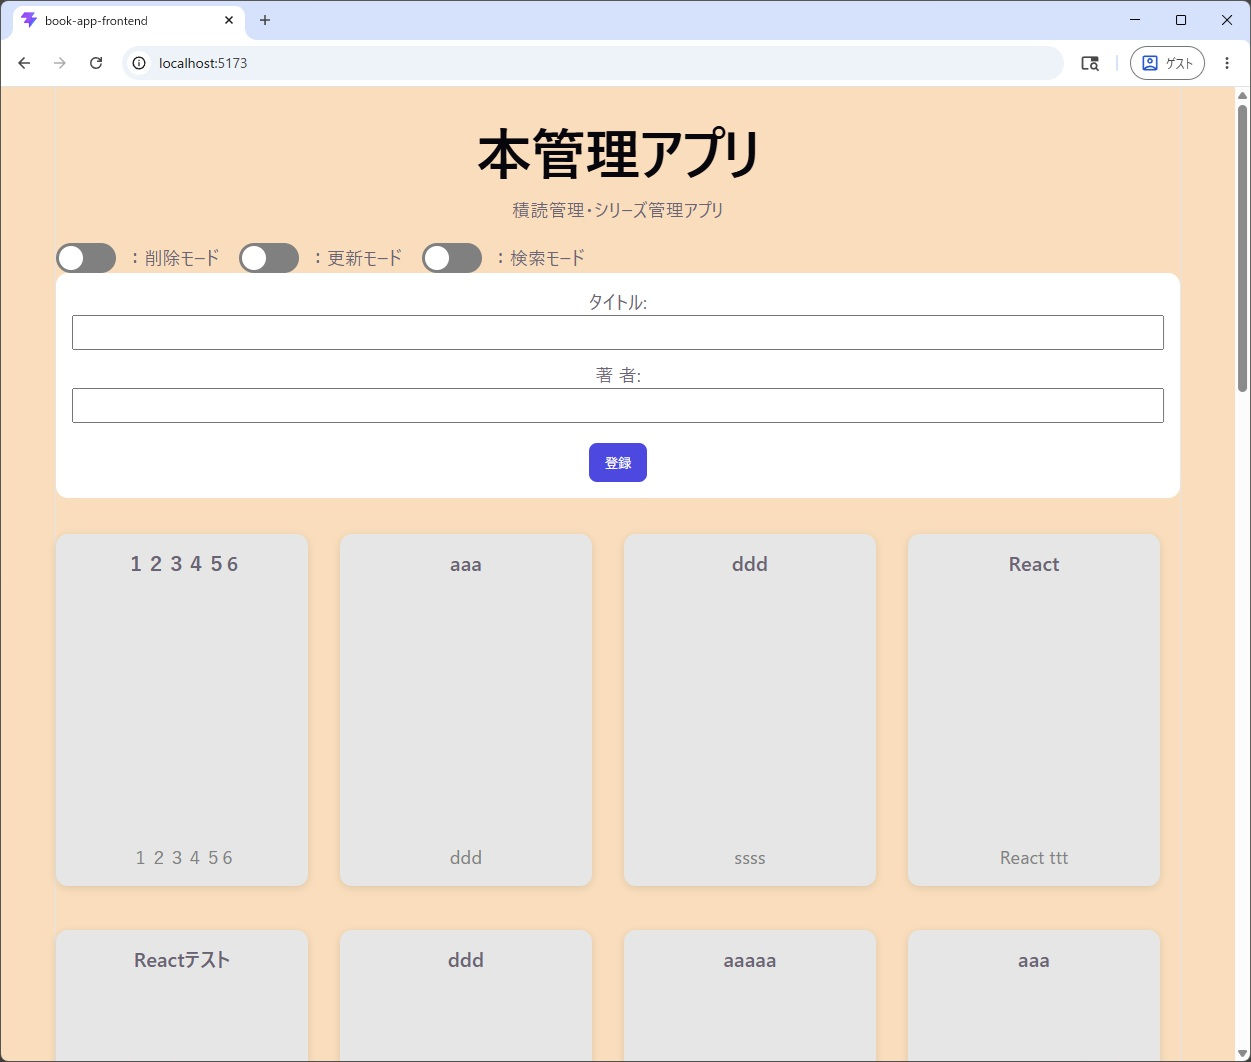
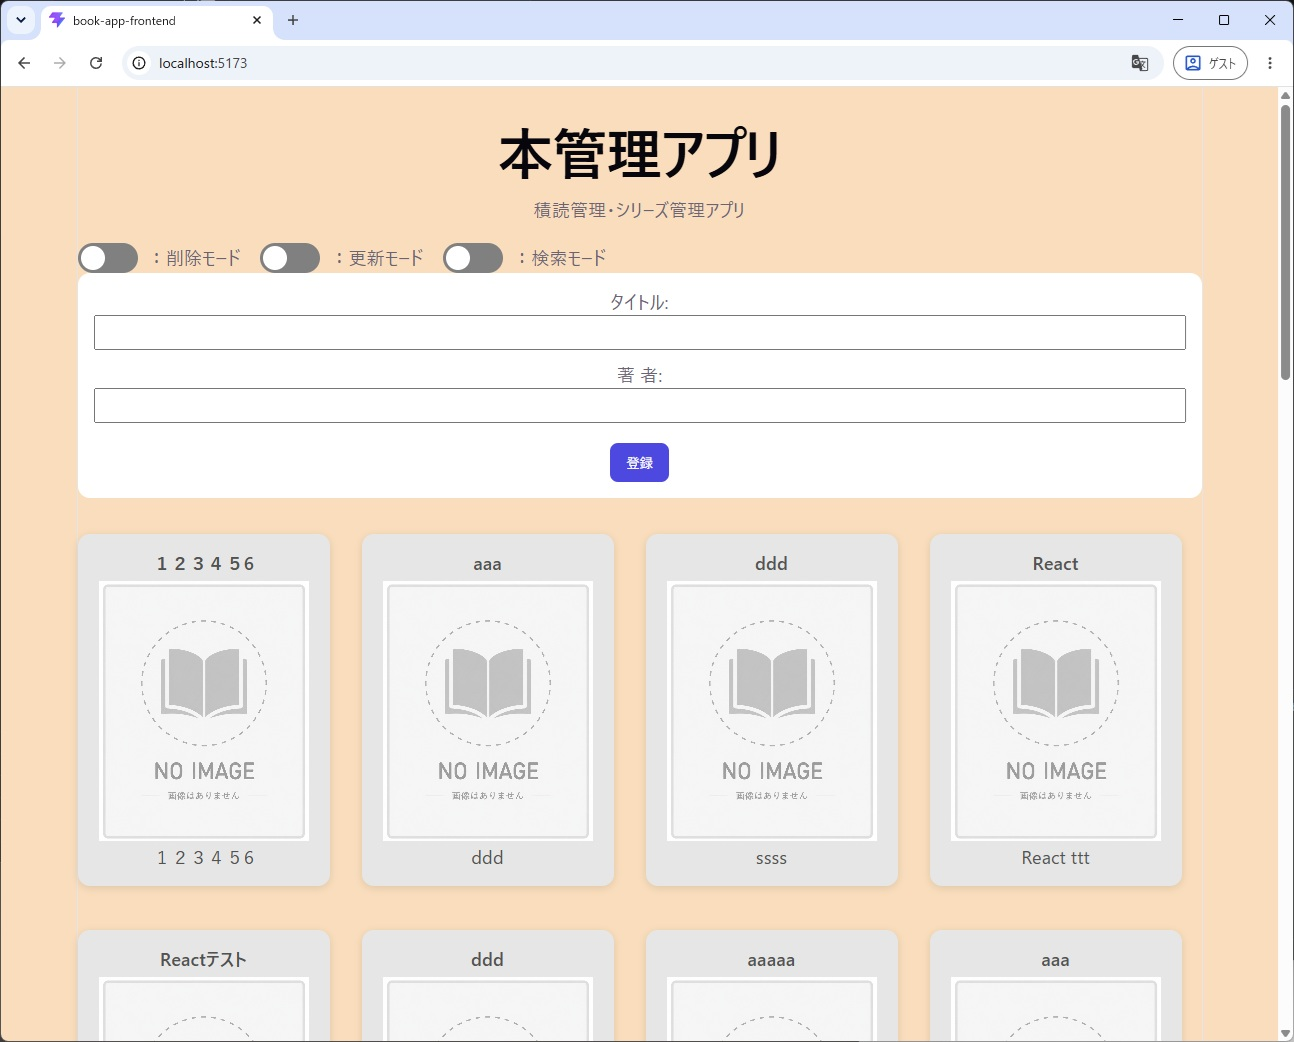
表紙画像追加とUI調整

diff --git a/src/App.jsx b/src/App.jsx
@@ -15,6 +15,9 @@ function App() {
   {/*複合モード*/}
   const [mode, setMode] = useState("normal")
 
+   {/*検索時判定*/}
+  const [isSearch, setIsSearch] = useState(false)
+
   {/*検索*/}
   const [searchText, setSearchText] = useState("")
 
@@ -26,7 +29,7 @@ function App() {
     setAuthor("")
     setEditId(null)
     setSelectId(null)
-    console.log("mode変更")
+    setIsSearch(false)
   
   }, [mode])
 
@@ -63,11 +66,31 @@ function App() {
 
   //検索
   const searchBook = () => {
+
+    setIsSearch(true)
+
+    // 両方空なら全件取得
+    if (title === "" && author === "") {
+      fetchBooks()
+      return
+    }
+
     fetch(
-      `http://localhost:8080/books/search?title=${title}&author=${author}`
-    )
-      .then(response => response.json())
-      .then(data => setBooks(data))
+      `http://localhost:8080/books/search?title=${title}&author=${author}`)
+      .then(response => {
+        if (response.status === 404){
+          setBooks([])
+          return null
+        }
+
+        return response.json()
+      })
+
+      .then(data => {
+        if (data !== null){
+          setBooks(data)
+        }
+      })
   }
 
   //更新
@@ -93,6 +116,7 @@ function App() {
       setEditId(null)
       setSelectId(null)
       setMode("normal")
+      setIsSearch(false)
     })
     
   }
@@ -212,6 +236,12 @@ function App() {
       
       <div className="header"></div>
 
+      {books.length === 0 && isSearch && (
+        <p className="no-result">
+          検索結果がありません
+        </p>
+      )}
+
       {/*本カード一覧*/}
       <div className="book-list">
         {books.map(book => (
@@ -231,11 +261,18 @@ function App() {
                   setTitle(book.bookTitle)
                   setAuthor(book.authorName)
                 }
-
               }}
           >    
             {/*タイトル*/}
             <div className="book-title">{book.bookTitle}</div>
+
+            {/*ダミー画像*/}
+            <img
+              src="/images/no-image.png"
+              alt="表紙画像"
+              className="book-image"
+            />
+
             {/*著者*/}
             <div className="book-author">{book.authorName}</div>
 

diff --git a/src/index.css b/src/index.css
@@ -170,7 +170,8 @@ code {
 
 /*本タイトル*/
 .book-title {
-  font-size: 20px;
+  font-size: 18px;
+  color: rgb(82, 82, 82);
   font-weight: bold;
   width: 100%;
   word-break: break-word;
@@ -182,15 +183,16 @@ code {
 
 /*本表紙*/
 .book-image {
-  width: 100%;
-  border-radius: 8px;
-  background-color: rgba(255, 0, 0, 0.699);
+  width: 210px;
+  height: 260px;
+  object-fit: cover;
 }
 
 /*本著者*/
 .book-author {
-  color: gray;
-  margin-top: auto;
+  font-size: 18px;
+  color: rgb(82, 82, 82);
+  margin-top: -2px;
   width: 100%;
   word-break: break-word;
   overflow: hidden;

diff --git a/docs/React-study-log.md b/docs/React-study-log.md
@@ -1,6 +1,15 @@
 ## 📝 React学習ログ
 
-### 2026/06/01 作業時間：1.5h
+### 2026/06/05 作業時間：1.0h
+- 学習内容(フロント)
+  - Reactでの画像表示方法
+  - CSSによる画像サイズ調整
+  - marginを利用したレイアウト調整
+  - 検索結果0件時の表示制御方法
+  - stateを利用した検索状態管理
+  - HTTPステータスコード（404）と画面表示の連携
+
+### 2026/06/02 作業時間：1.5h
 - 学習内容(フロント)
   - useEffectによる状態変化監視
   - useEffectを利用したモード変更時の状態初期化

diff --git a/docs/React-development-log.md b/docs/React-development-log.md
@@ -1,6 +1,15 @@
 ## 📝 React開発ログ
 
-### 2026/06/01 作業時間：1.5h
+### 2026/06/05 作業時間：1.0h
+- 実装内容(フロント)
+  - ダミー表紙画像表示機能追加
+  - カードレイアウト調整
+    - 表紙画像サイズ調整
+    - タイトル位置調整
+  - UI改善
+    - カード選択状態の視認性向上
+
+### 2026/06/02 作業時間：1.5h
 - 実装内容(フロント)
   - カード選択状態の強調表示実装
   - モード変更時の選択状態リセット実装
